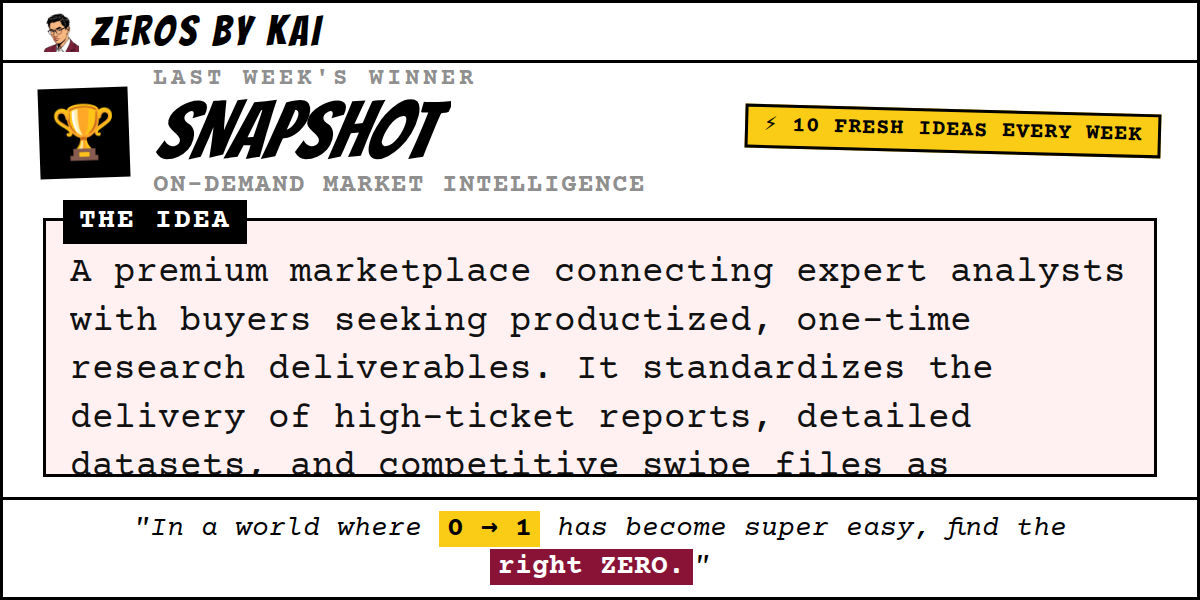
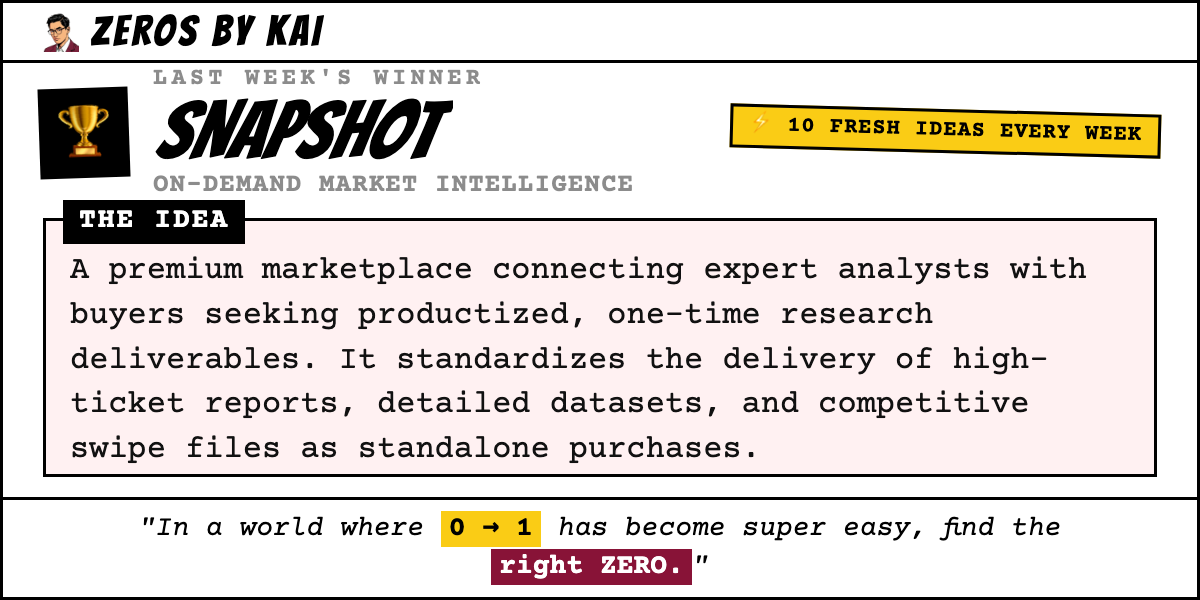
feat(roast): add summaries, fix scroll lock, and enable carousel text selection

diff --git a/frontend/components/IdeaCard.jsx b/frontend/components/IdeaCard.jsx
@@ -6,14 +6,17 @@ const ensureTrailingPeriod = (text) => {
     return `${trimmed}.`;
 };
 
-export default function IdeaCard({ idea, index, isUserPick, btnProps, votingIdeaId, onVote }) {
+export default function IdeaCard({ idea, index, isUserPick, btnProps, votingIdeaId, onVote, dragControls }) {
     return (
         <div
-            className={`w-full relative group mb-6 transition-all ${isUserPick ? 'z-20' : 'z-10'}`}
+            className={`w-full relative group mb-6 transition-all select-text ${isUserPick ? 'z-20' : 'z-10'}`}
             style={{ animationDelay: `${index * 0.1}s` }}
         >
             {/* Main Panel */}
-            <div className={`comic-panel bg-white comic-shadow relative overflow-hidden transition-all duration-300 ${isUserPick ? 'ring-4 ring-yellow-400' : ''}`}>
+            <div 
+                className={`comic-panel bg-white comic-shadow relative overflow-hidden transition-all duration-300 ${isUserPick ? 'ring-4 ring-yellow-400' : ''}`}
+                onPointerDown={(e) => dragControls && dragControls.start(e)}
+            >
 
                 {/* Content Section */}
                 <div className="p-3 sm:p-4 pb-2">
@@ -27,7 +30,10 @@ export default function IdeaCard({ idea, index, isUserPick, btnProps, votingIdea
                         {/* Name & One-liner */}
                         <div className="flex-1 min-w-0">
                             <div className="flex items-center justify-between gap-2 mb-0.5">
-                                <h3 className="comic-title text-2xl leading-tight text-gray-900 italic tracking-tight uppercase pr-2">
+                                <h3 
+                                    className="comic-title text-2xl leading-tight text-gray-900 italic tracking-tight uppercase pr-2 select-text cursor-text"
+                                    onPointerDown={(e) => e.stopPropagation()}
+                                >
                                     {idea.name}
                                 </h3>
                                 {isUserPick && (
@@ -36,7 +42,10 @@ export default function IdeaCard({ idea, index, isUserPick, btnProps, votingIdea
                                     </div>
                                 )}
                             </div>
-                            <p className="comic-body text-[10px] sm:text-[11px] font-bold text-gray-600 uppercase tracking-[0.12em] leading-tight">
+                            <p 
+                                className="comic-body text-[10px] sm:text-[11px] font-bold text-gray-600 uppercase tracking-[0.12em] leading-tight select-text cursor-text"
+                                onPointerDown={(e) => e.stopPropagation()}
+                            >
                                 {idea.title}
                             </p>
                         </div>
@@ -66,7 +75,10 @@ export default function IdeaCard({ idea, index, isUserPick, btnProps, votingIdea
                             <h4 className="comic-body text-[10px] font-bold text-gray-400 uppercase tracking-[0.2em] mb-1 opacity-60">
                                 MARKET POTENTIAL
                             </h4>
-                            <p className="comic-body text-xs sm:text-[13px] font-bold text-rose-700 leading-snug">
+                            <p 
+                                className="comic-body text-xs sm:text-[13px] font-bold text-rose-700 leading-snug select-text cursor-text"
+                                onPointerDown={(e) => e.stopPropagation()}
+                            >
                                 {ensureTrailingPeriod(idea.why_it_matters || idea.why)}
                             </p>
                         </div>
@@ -75,7 +87,10 @@ export default function IdeaCard({ idea, index, isUserPick, btnProps, votingIdea
                             <h4 className="comic-body text-[10px] font-bold text-gray-400 uppercase tracking-[0.2em] mb-1 opacity-60">
                                 TARGET AUDIENCE
                             </h4>
-                            <p className="comic-body text-xs sm:text-[13px] font-bold text-black leading-snug">
+                            <p 
+                                className="comic-body text-xs sm:text-[13px] font-bold text-black leading-snug select-text cursor-text"
+                                onPointerDown={(e) => e.stopPropagation()}
+                            >
                                 {ensureTrailingPeriod(idea.target)}
                             </p>
                         </div>
@@ -122,7 +137,10 @@ function DetailSection({ title, content, bgColor }) {
             <div className={`absolute -top-2.5 left-3 bg-black text-white text-[9px] font-bold px-2 py-0.5 uppercase tracking-widest shadow-sm`}>
                 {title}
             </div>
-            <p className="comic-body text-[12px] sm:text-[13px] leading-relaxed text-gray-900 pt-0.5">
+            <p 
+                className="comic-body text-[12px] sm:text-[13px] leading-relaxed text-gray-900 pt-0.5 select-text cursor-text"
+                onPointerDown={(e) => e.stopPropagation()}
+            >
                 {content}
             </p>
         </div>

diff --git a/frontend/components/IdeaCarousel.jsx b/frontend/components/IdeaCarousel.jsx
@@ -1,5 +1,5 @@
 import { useState, useEffect, useCallback } from 'react';
-import { motion, AnimatePresence } from 'framer-motion';
+import { motion, AnimatePresence, useDragControls } from 'framer-motion';
 import { ChevronLeft, ChevronRight } from 'lucide-react';
 import IdeaCard from './IdeaCard';
 
@@ -99,6 +99,8 @@ export default function IdeaCarousel({
                 <AnimatePresence initial={false} custom={direction}>
                     {cardData.map((card) => {
                         const idea = ideas[card.index];
+                        const controls = useDragControls();
+
                         return (
                             <motion.div
                                 key={`${card.index}-${card.id}`}
@@ -115,6 +117,8 @@ export default function IdeaCarousel({
                                 }}
                                 {...(card.position === 'center' && {
                                     drag: "x",
+                                    dragControls: controls,
+                                    dragListener: false,
                                     dragConstraints: { left: 0, right: 0 },
                                     dragElastic: 1,
                                     onDragEnd: (e, { offset, velocity }) => {
@@ -126,7 +130,8 @@ export default function IdeaCarousel({
                                         }
                                     }
                                 })}
-                                className="absolute w-full max-w-sm sm:max-w-md lg:max-w-lg cursor-grab active:cursor-grabbing"
+                                className="absolute w-full max-w-sm sm:max-w-md lg:max-w-lg cursor-default"
+                                style={{ userSelect: 'text' }}
                             >
                                 <IdeaCard
                                     idea={idea}
@@ -135,6 +140,7 @@ export default function IdeaCarousel({
                                     btnProps={getVoteButtonProps(idea.id)}
                                     votingIdeaId={votingIdeaId}
                                     onVote={onVote}
+                                    dragControls={controls}
                                 />
                             </motion.div>
                         );

diff --git a/frontend/pages/roast.jsx b/frontend/pages/roast.jsx
@@ -6,6 +6,7 @@ import {
   Skull, Zap, AlertTriangle, Lightbulb, Target, ChevronDown, ChevronUp, Users, X
 } from 'lucide-react';
 import { useAuth, apiFetch } from '@/lib/auth';
+import { useSmoothScroll } from '@/lib/smoothScroll';
 
 // ─── constants ────────────────────────────────────────────────────────────────
 
@@ -335,6 +336,7 @@ function FAQItem({ q, a, index }) {
 }
 
 function RoastDetailModal({ entry, onClose }) {
+  const { stop, start } = useSmoothScroll();
   const roast = entry.roast || {};
   const score = entry.roast_score;
   const date = entry.created_at
@@ -345,11 +347,13 @@ function RoastDetailModal({ entry, onClose }) {
     const onKey = (e) => { if (e.key === 'Escape') onClose(); };
     document.addEventListener('keydown', onKey);
     document.body.style.overflow = 'hidden';
+    stop(); // Lock smooth scroll
     return () => {
       document.removeEventListener('keydown', onKey);
       document.body.style.overflow = 'unset';
+      start(); // Enable smooth scroll
     };
-  }, [onClose]);
+  }, [onClose, stop, start]);
 
   return (
     <motion.div
@@ -358,6 +362,7 @@ function RoastDetailModal({ entry, onClose }) {
       exit={{ opacity: 0 }}
       onClick={onClose}
       className="fixed inset-0 bg-black/70 z-[200] overflow-y-auto overscroll-contain"
+      data-lenis-prevent
     >
       <div className="min-h-full flex items-start justify-center p-4 py-10">
         <motion.div
@@ -432,7 +437,9 @@ function PitCard({ entry, index, onViewDetail }) {
 
       {/* Body */}
       <div className="p-4 flex-1 flex flex-col gap-3">
-        <p className="comic-body text-sm text-gray-800 italic leading-relaxed">&ldquo;{truncate(entry.idea, 120)}&rdquo;</p>
+        <p className="comic-body text-sm text-gray-800 italic leading-relaxed">
+          &ldquo;{entry.roast?.summary || truncate(entry.idea, 120)}&rdquo;
+        </p>
 
         {entry.roast?.verdict && (
           <div className="border-l-4 border-rose-700 pl-3">

diff --git a/backend/src/test_roast_summary.js b/backend/src/test_roast_summary.js
@@ -1,0 +1,55 @@
+import { GoogleGenerativeAI } from '@google/generative-ai';
+import dotenv from 'dotenv';
+import path from 'path';
+import { fileURLToPath } from 'url';
+
+const __dirname = path.dirname(fileURLToPath(import.meta.url));
+dotenv.config({ path: path.join(__dirname, '../.env') });
+
+const apiKey = process.env.GEMINI_API_KEY;
+if (!apiKey) {
+    console.error('GEMINI_API_KEY missing');
+    process.exit(1);
+}
+
+const genAI = new GoogleGenerativeAI(apiKey);
+const model = genAI.getGenerativeModel({ model: 'gemini-3-flash-preview' });
+
+const idea = "An AI-powered assistant that helps users make high-stakes purchase decisions (cars, laptops, insurance, etc.) by collecting their preferences and cross-referencing with expert reviews and user data.";
+
+const prompt = `You are Kai — a brutally honest AI startup analyst...
+Return ONLY a valid JSON object. No markdown fences, no backticks, no explanation. Just raw JSON matching this exact structure:
+
+{
+  "summary": "A one-line professional summary of the startup idea (max 100 characters)",
+  "verdict": "One brutally honest sentence verdict on this idea (max 120 characters)",
+  "roast_score": 10,
+  "score_label": "...",
+  "what_went_wrong": ["..."],
+  "who_already_did_it": "...",
+  "founder_archetype": "...",
+  "survivability": "...",
+  "one_real_advice": "...",
+  "closing_burn": "..."
+}
+
+STARTUP IDEA:
+${JSON.stringify(idea)}`;
+
+async function test() {
+    try {
+        const result = await model.generateContent(prompt);
+        const text = result.response.text();
+        console.log('Response:', text);
+        const data = JSON.parse(text.replace(/```json\n?/gi, '').replace(/```\n?/gi, '').trim());
+        if (data.summary) {
+            console.log('✅ Summary found:', data.summary);
+        } else {
+            console.error('❌ Summary missing');
+        }
+    } catch (err) {
+        console.error('Error:', err);
+    }
+}
+
+test();

diff --git a/backend/src/routes/roast.js b/backend/src/routes/roast.js
@@ -143,6 +143,7 @@ ${safeIdea}
 Return ONLY a valid JSON object. No markdown fences, no backticks, no explanation. Just raw JSON matching this exact structure:
 
 {
+  "summary": "A one-line professional summary of the startup idea (max 100 characters)",
   "verdict": "One brutally honest sentence verdict on this idea (max 120 characters)",
   "roast_score": <integer 1-10, where 1 = abandoned shopping cart, 10 = actually defensible>,
   "score_label": "A snarky all-caps label for the score (e.g. CERTIFIED DUMPSTER FIRE, LUKEWARM GARBAGE, ALMOST NOT TERRIBLE)",
@@ -160,7 +161,7 @@ Return ONLY a valid JSON object. No markdown fences, no backticks, no explanatio
 }
 
 const REQUIRED_STRING_FIELDS = [
-    'verdict', 'score_label', 'who_already_did_it',
+    'summary', 'verdict', 'score_label', 'who_already_did_it',
     'founder_archetype', 'survivability', 'one_real_advice', 'closing_burn',
 ];
 
@@ -191,6 +192,7 @@ function parseRoastResponse(text) {
     } catch (err) {
         console.warn('[Roast] Parse/validation failed:', err.message);
         return {
+            summary: "An inscrutable startup concept.",
             verdict: "Even the AI couldn't make sense of this one.",
             roast_score: 5,
             score_label: 'INCONCLUSIVE',

diff --git a/backend/src/templates/x-card-winner.html b/backend/src/templates/x-card-winner.html
@@ -227,11 +227,11 @@
 
     .panel-text {
       font-family: 'Courier Prime', monospace;
-      font-size: 36px;
-      line-height: 1.35;
+      font-size: 32px;
+      line-height: 1.4;
       color: #111;
       display: -webkit-box;
-      -webkit-line-clamp: 6;
+      -webkit-line-clamp: 7;
       -webkit-box-orient: vertical;
       overflow: hidden;
     }
